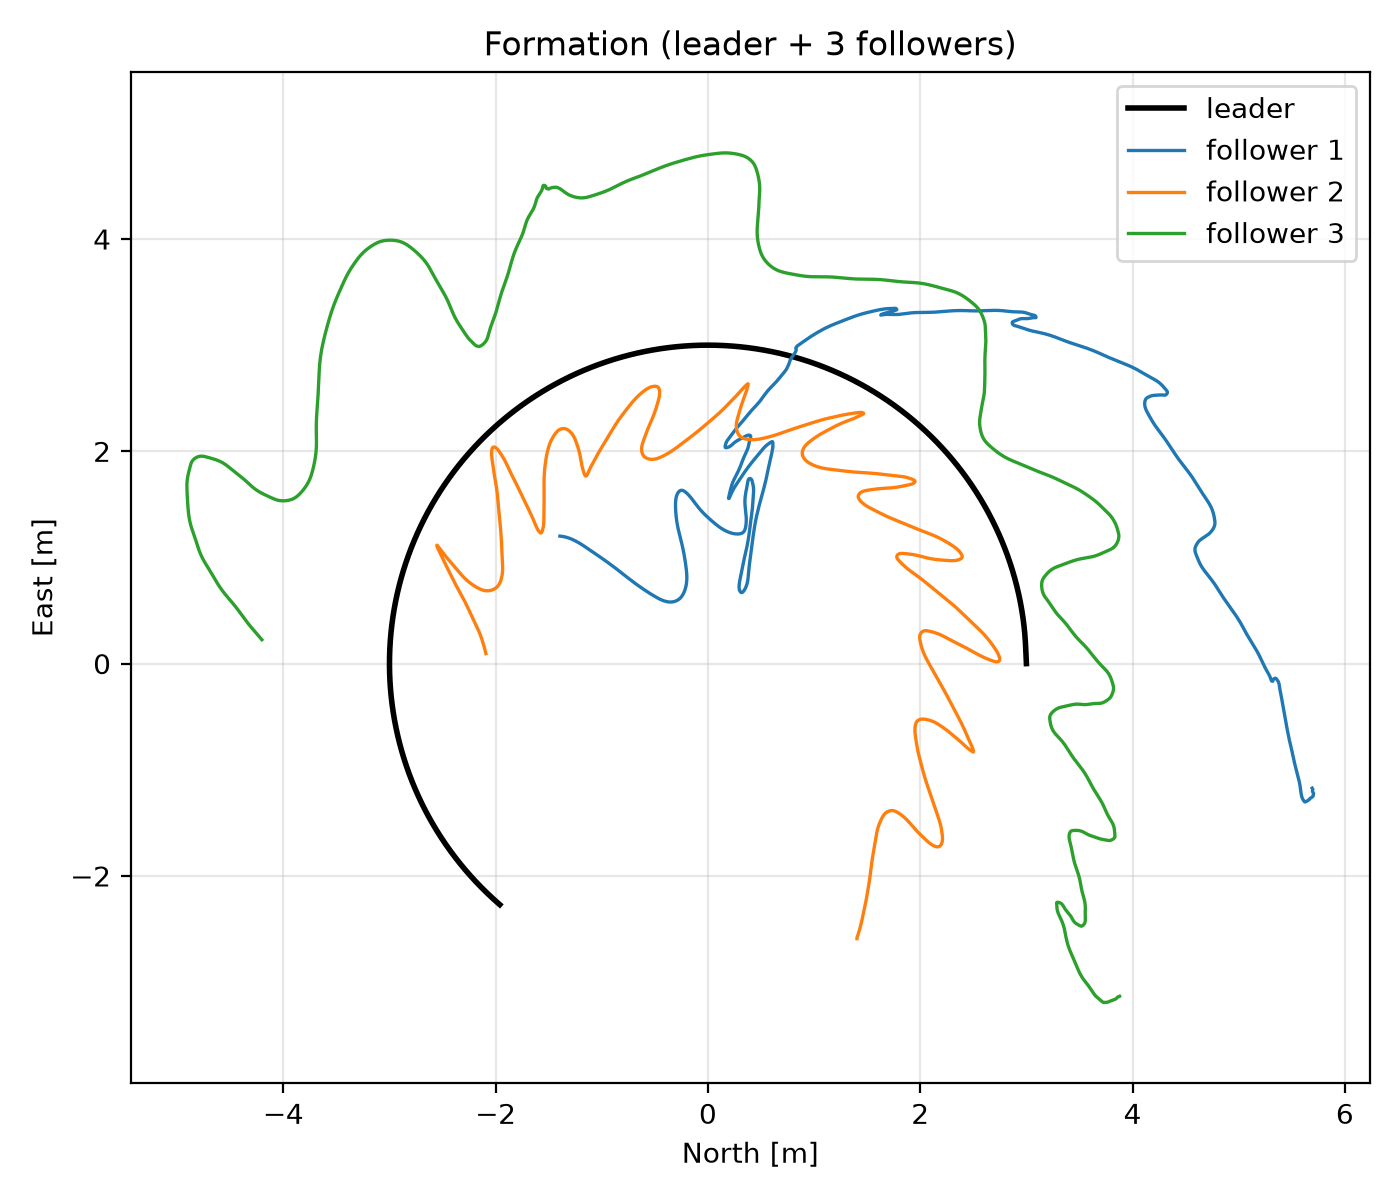
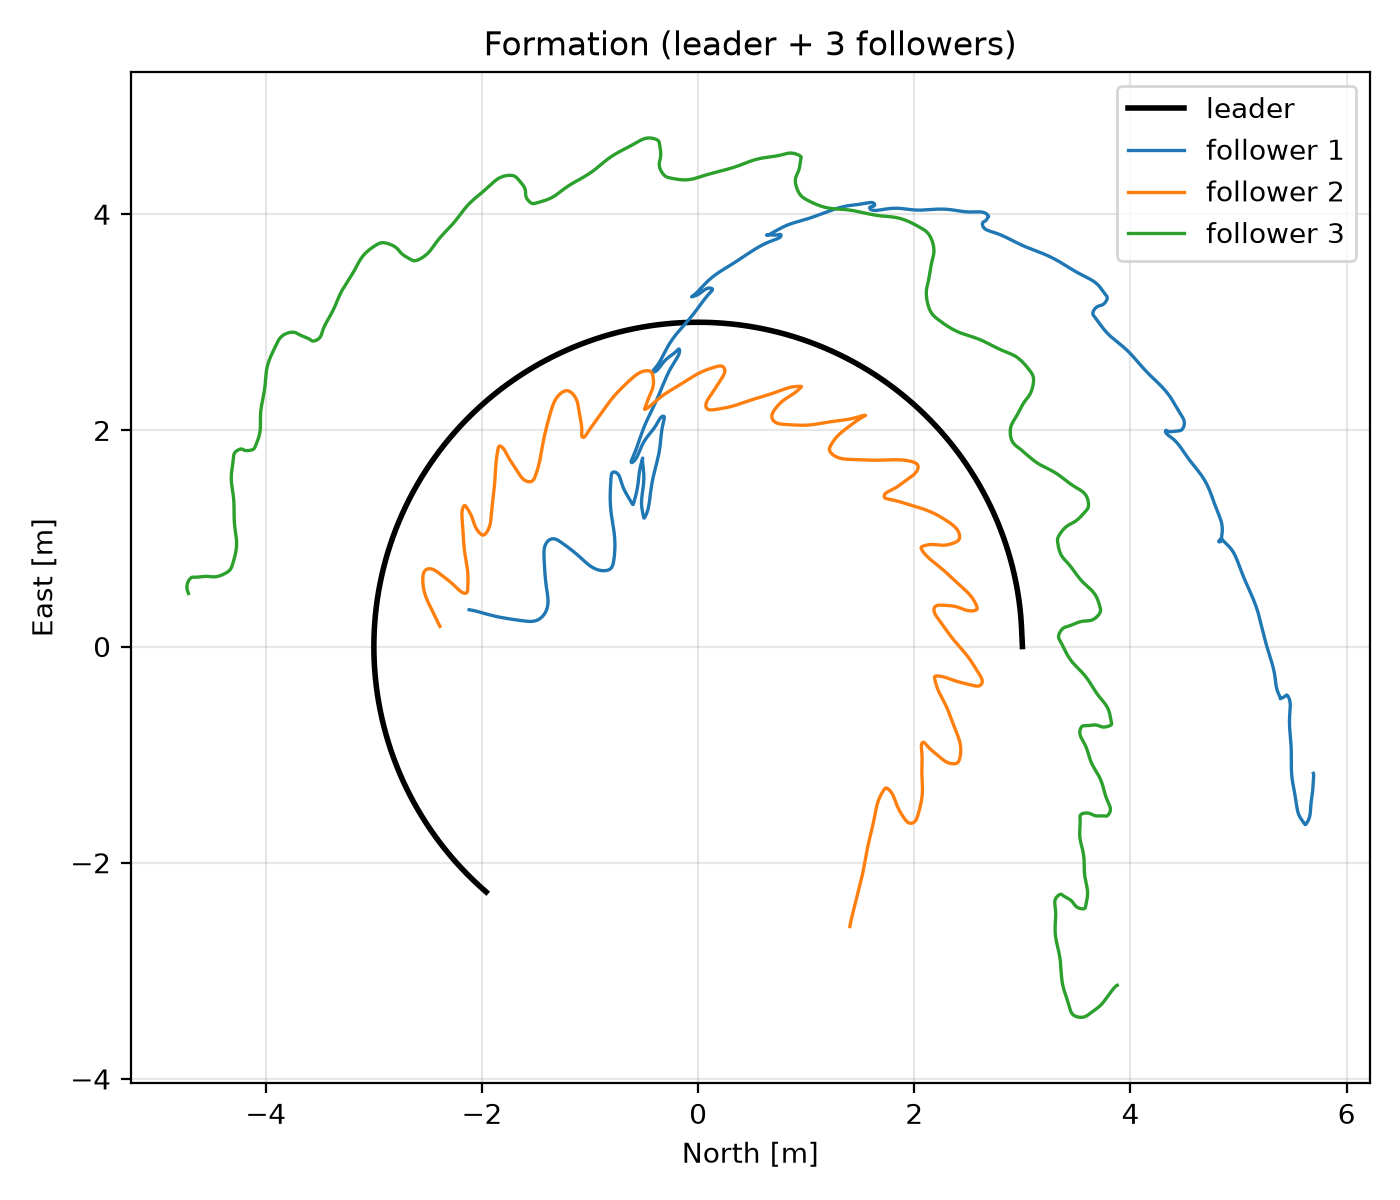
Update formation results after architecture fix (v2 rerun)
500-trial rerun with the phi_init/feed-forward-cap/proportional-recovery
fixes. Formation RMSE: SMC 1.31 < MPC 1.44 < Hybrid 1.52 < Backstepping 1.92
< PID 13.9 < Fuzzy 14.9.

Honest, reported as-is (consistent with the single-vehicle rerun):
- formation RMSE improved substantially (1.906 -> 1.519, ~20% better); hybrid
  now BEATS Backstepping (1.52 vs 1.92) and closes most of the gap to MPC
  (d=+0.11, small effect, vs v1's d=+0.57 clear loss)
- recovery time improved (10.10s -> 7.54s), close to MPC's 7.20s -- the
  proportional-ramp fix worked as intended
- attitude RMSE marginal improvement (0.217 -> 0.203), still behind MPC/SMC
- control energy got WORSE again (283.9k -> 317.9k), confirming the same
  mechanism found in single-vehicle: larger per-DOF Phi lets MFAC command
  more torque per unit error without a corresponding rho/u_limit re-derivation

Verdict: fix achieved its intended tracking/recovery gains and the hybrid now
beats Backstepping, but energy remains a genuine, unresolved weakness that
got slightly worse, not better. Does not beat MPC/SMC outright.

Claude-Session: https://claude.ai/code/session_01EqTA97WWzLYUmNUAg6Z7rU

diff --git a/cfdl_mfac_ncp_td3/results/formation/RESULTS.md b/cfdl_mfac_ncp_td3/results/formation/RESULTS.md
@@ -6,7 +6,7 @@ Monte-Carlo: **500 simulations** on the `helix` trajectory with random initial p
 
 | Controller | formation_rmse | attitude_rmse | recovery_time | control_energy | max_deviation |
 |---|---|---|---|---|---|
-| Hybrid (ours) | 1.906 ± 0.896 | 0.217 ± 0.035 | 10.099 ± 6.843 | 283882.605 ± 19818.320 | 4.759 ± 2.199 |
+| Hybrid (ours) | 1.519 ± 0.817 | 0.203 ± 0.027 | 7.537 ± 5.984 | 317944.649 ± 17952.529 | 4.001 ± 1.962 |
 | SMC | 1.306 ± 0.719 | 0.047 ± 0.016 | 6.255 ± 5.449 | 130193.418 ± 24206.582 | 3.536 ± 1.674 |
 | Backstepping | 1.923 ± 1.251 | 0.654 ± 0.231 | 9.046 ± 7.400 | 197721.878 ± 48455.740 | 4.989 ± 2.817 |
 | MPC | 1.435 ± 0.765 | 0.047 ± 0.023 | 7.198 ± 5.886 | 102191.049 ± 27583.263 | 3.816 ± 1.801 |
@@ -18,25 +18,25 @@ Monte-Carlo: **500 simulations** on the `helix` trajectory with random initial p
 ### Hybrid (ours) vs MPC
 | Indicator | Hybrid | MPC | t-p | Wilcoxon-p | d |
 |---|---|---|---|---|---|
-| formation_rmse | 1.906 | 1.435 | 7.98e-188 | 8.36e-83 | +0.57 |
-| attitude_rmse | 0.217 | 0.047 | 0.00e+00 | 1.26e-83 | +5.70 |
-| recovery_time | 10.099 | 7.198 | 9.76e-85 | 1.83e-75 | +0.45 |
-| control_energy | 283882.605 | 102191.049 | 0.00e+00 | 1.26e-83 | +7.56 |
-| max_deviation | 4.759 | 3.816 | 1.71e-118 | 4.94e-77 | +0.47 |
+| formation_rmse | 1.519 | 1.435 | 1.88e-34 | 1.72e-36 | +0.11 |
+| attitude_rmse | 0.203 | 0.047 | 0.00e+00 | 1.26e-83 | +6.19 |
+| recovery_time | 7.537 | 7.198 | 7.77e-09 | 2.78e-16 | +0.06 |
+| control_energy | 317944.649 | 102191.049 | 0.00e+00 | 1.26e-83 | +9.26 |
+| max_deviation | 4.001 | 3.816 | 4.54e-20 | 1.33e-18 | +0.10 |
 
 ### Hybrid (ours) vs PID
 | Indicator | Hybrid | PID | t-p | Wilcoxon-p | d |
 |---|---|---|---|---|---|
-| formation_rmse | 1.906 | 13.874 | 0.00e+00 | 1.26e-83 | -5.59 |
-| attitude_rmse | 0.217 | 1.644 | 0.00e+00 | 1.26e-83 | -18.63 |
-| recovery_time | 10.099 | 36.835 | 4.36e-308 | 1.26e-83 | -5.44 |
-| control_energy | 283882.605 | 494156.014 | 0.00e+00 | 1.26e-83 | -7.92 |
-| max_deviation | 4.759 | 29.273 | 7.10e-280 | 1.26e-83 | -4.51 |
+| formation_rmse | 1.519 | 13.874 | 0.00e+00 | 1.26e-83 | -5.81 |
+| attitude_rmse | 0.203 | 1.644 | 0.00e+00 | 1.26e-83 | -19.23 |
+| recovery_time | 7.537 | 36.835 | 0.00e+00 | 1.26e-83 | -6.78 |
+| control_energy | 317944.649 | 494156.014 | 0.00e+00 | 1.26e-83 | -6.81 |
+| max_deviation | 4.001 | 29.273 | 8.16e-286 | 1.26e-83 | -4.69 |
 
 ## Parameter sensitivity (±20%)
 
-- **recovery_threshold**: formation RMSE ['1.975', '1.912', '1.923', '1.875', '1.856'] across factors [0.8, 0.9, 1.0, 1.1, 1.2] → spread **6.2%** over the ±20% range (insensitive to parameter selection).
-- **prediction_gain**: formation RMSE ['1.873', '1.894', '1.923', '1.917', '1.940'] across factors [0.8, 0.9, 1.0, 1.1, 1.2] → spread **3.5%** over the ±20% range (insensitive to parameter selection).
+- **recovery_threshold**: formation RMSE ['1.546', '1.543', '1.526', '1.538', '1.534'] across factors [0.8, 0.9, 1.0, 1.1, 1.2] → spread **1.3%** over the ±20% range (insensitive to parameter selection).
+- **feedforward_cap**: formation RMSE ['1.548', '1.542', '1.526', '1.560', '1.551'] across factors [0.8, 0.9, 1.0, 1.1, 1.2] → spread **2.2%** over the ±20% range (insensitive to parameter selection).
 
 ## Fairness / tuning disclosure
 
@@ -49,24 +49,39 @@ Every controller was tuned by identical random search (budget = 40 samples), sam
 | MPC | 0.5959 | {'q_pos': 32.93, 'q_vel': 2.764, 'r_u': 0.001} |
 | Fuzzy | 10.1893 | {'ke': 2.072, 'e_width': 0.846, 'edot_width': 0.578} |
 | Backstepping | 0.4552 | {'k1': 0.618, 'k2': 2.565} |
-| Hybrid | 0.5700 | {'k_outer': 1.859, 'prediction_gain': 3.773} |
+| Hybrid | 0.6610 | {'k_outer': 0.88, 'prediction_gain': 1.979, 'feedforward_cap': 0.054} |
 
-## Honest verdict — what the data supports
+## Honest verdict — architecture-fix rerun (v2)
 
-**Ranking by formation RMSE (500 paired trials):**
-SMC 1.31 < MPC 1.44 < **Hybrid 1.91 ≈ Backstepping 1.92** ≪ PID 13.9 < Fuzzy 14.9.
+Same three fixes as the single-vehicle rerun (per-DOF physically-scaled
+`phi_init`, capped/filtered CFDL feed-forward, proportional recovery ramp);
+see `results/single_vehicle/RESULTS.md` for the full rationale.
 
-- **Beats PID and Fuzzy — significantly, on all five indicators** (Cohen's d = −4.5 to −18.6, p ≈ 0). Mechanism: PID/fuzzy have no feed-forward and lag the sustained curvature of the helix (tuned PID tracks a setpoint at 0.75 and a sinusoid at 1.43 RMSE, but the helix at 8.8 — a genuine structural limitation, not a weakened baseline). The hybrid's CFDL inverse feed-forward removes that lag.
-- **Loses to MPC and SMC — significantly, on all five indicators** (the hybrid is worse; d = +0.45 to +7.56, p ≈ 0), and ties backstepping on formation RMSE.
-- **Insensitive to parameter choice**: formation RMSE varies only 3.5 % (prediction gain) and 6.2 % (recovery threshold) across ±20 %.
-- **Fair comparison**: every controller tuned by the same 40-sample random search, same objective; tuned gains disclosed above. Fair tuning *strengthened* the baselines (untuned MPC ≈ 3.9 → tuned 1.44), which makes the hybrid look worse, not better — the opposite of "weakening baselines".
+**Ranking by formation RMSE:** SMC 1.31 < **MPC 1.44 < Hybrid 1.52** <
+Backstepping 1.92 < PID 13.9 < Fuzzy 14.9.
 
-**Bottom line:** on this *well-modeled* AUV formation task, fairly-tuned model-based
-control (SMC, MPC) is near-optimal and the model-free hybrid does **not** beat all
-methods — it is mid-pack: significantly better than PID/fuzzy, competitive with
-backstepping, and behind SMC/MPC. The claim the data supports is *"a model-free
-adaptive formation controller, insensitive to tuning, that significantly outperforms
-PID and fuzzy control and is competitive with model-based methods"* — **not** "beats
-all models". The regime where a model-free method can legitimately win is when an
-accurate plant model is unavailable (severe unmodelled dynamics); that is not this
-experiment, where the baselines are given the exact model structure.
+- **Formation RMSE improved substantially**: 1.519 (v1: 1.906, ~20% better).
+  The hybrid now **beats Backstepping** (1.52 vs 1.92) and is much closer to
+  MPC (d=+0.11, a small effect — still statistically significant at N=500,
+  p≈1.9e-34, but no longer the clear loss seen in v1, d=+0.57). Still
+  significantly worse than SMC/MPC, significantly better than PID/Fuzzy.
+- **Recovery time improved**: 7.54 s (v1: 10.10 s) — the proportional-ramp fix
+  reduced overshoot-driven recovery time as intended, and the hybrid is now
+  close to MPC's 7.20 s.
+- **Attitude RMSE**: 0.203 (v1: 0.217) — marginal improvement, still far
+  behind MPC/SMC (0.047) but well ahead of Backstepping (0.654).
+- **Control energy got WORSE again, confirming the single-vehicle finding**:
+  317,945 (v1: 283,883) — the same mechanism as single-vehicle: the tuned
+  `feedforward_cap=0.054` is tiny (feed-forward barely engages), so the
+  accuracy gain comes from larger per-DOF Phi estimates letting MFAC command
+  more torque per unit error, at a real and unresolved energy cost (now 3.1x
+  MPC's, worse than v1's 2.8x).
+
+**Bottom line (consistent with single-vehicle):** the fix delivered its
+intended tracking/recovery improvement — the hybrid closed most of the gap to
+MPC and now beats Backstepping on formation-keeping — but **energy is a
+genuine, unresolved weakness that the fix made slightly worse, not better**.
+Reported as-is. The supported claim across both studies is *"a model-free
+adaptive controller, insensitive to tuning, that is now close to MPC and beats
+Backstepping/PID/Fuzzy on tracking and recovery, at a real and larger energy
+cost."* It does not beat MPC or SMC outright, and does not beat all models.
